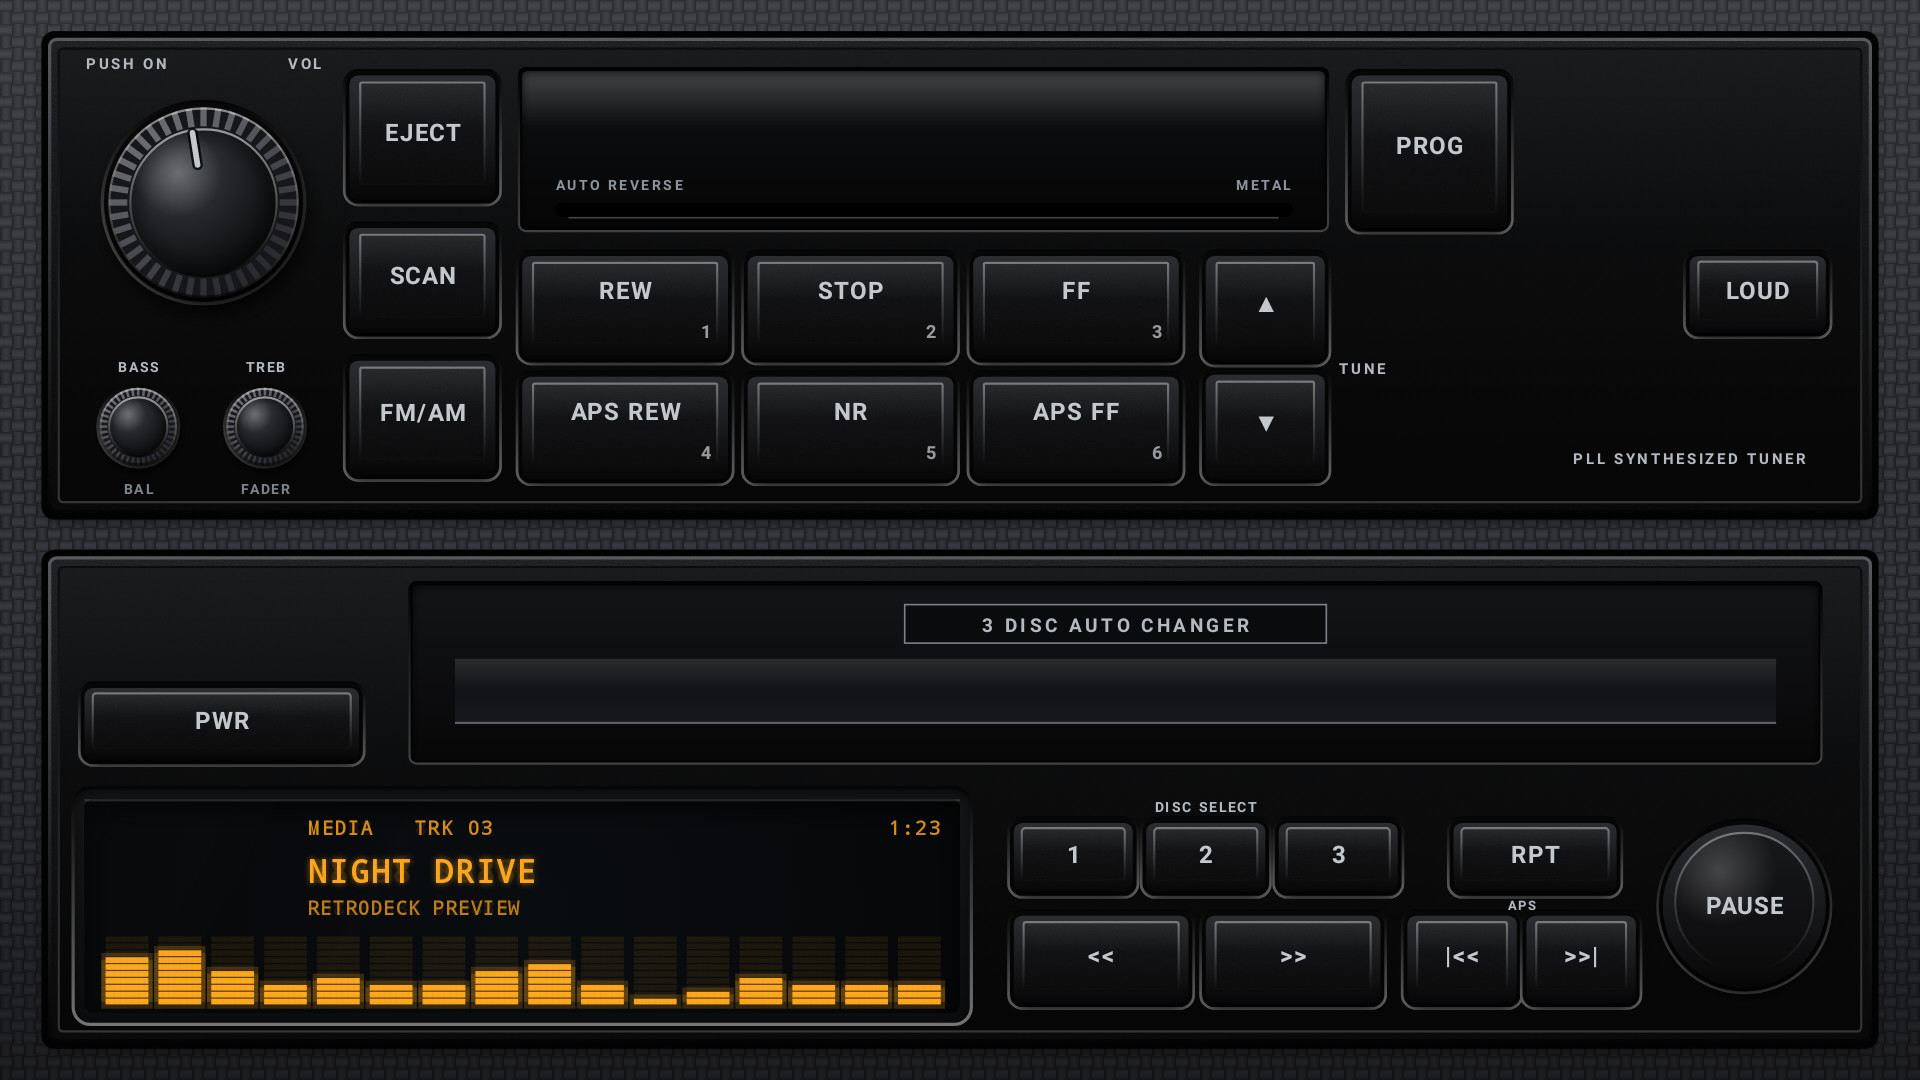
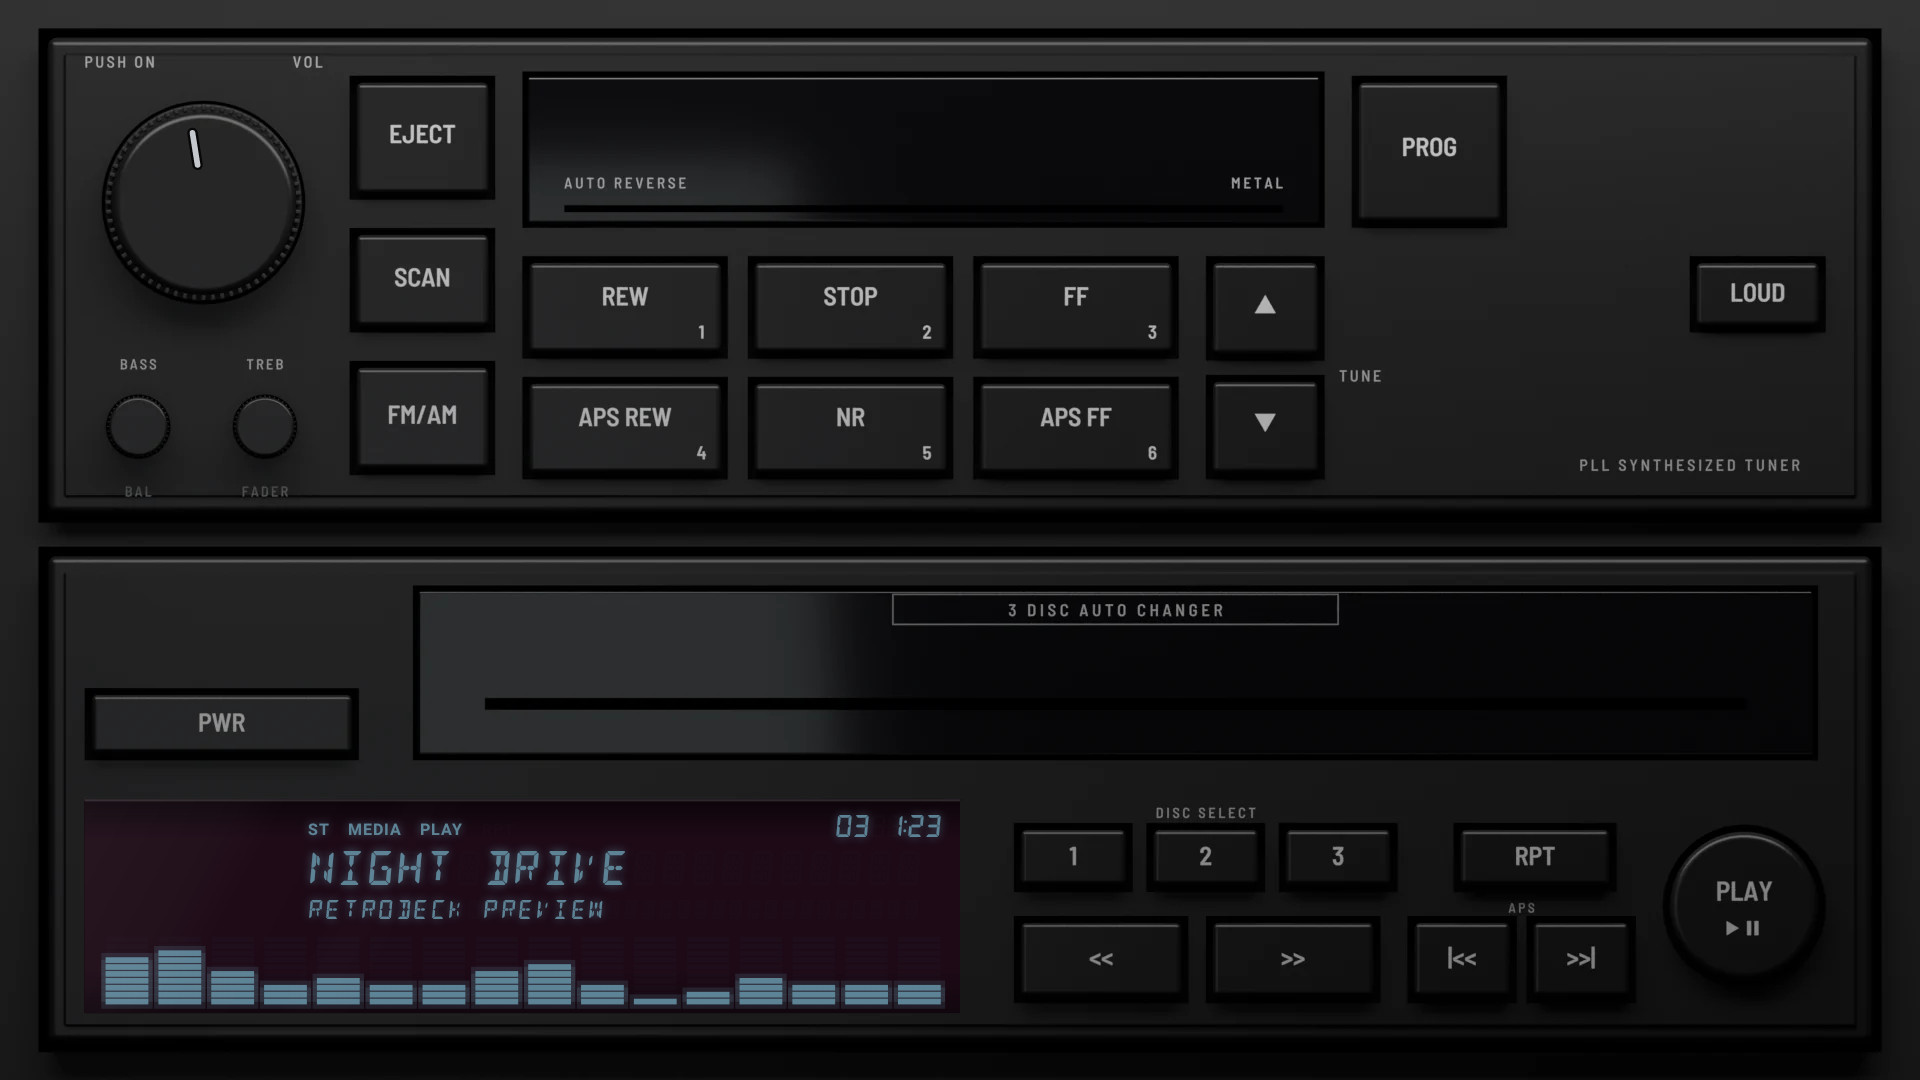
Docs: the 3D Z32's day and night renders, labelled, until it's re-shot on a device

Changed region(s): [[0.0, 0.0, 1.0, 1.0], [0.5938, 0.9167, 0.6562, 0.9472]]

diff --git a/README.md b/README.md
@@ -31,12 +31,12 @@
 
 <table>
   <tr>
-    <td width="50%"><img src="themes/1990s/z32-factory-1990/z32-night.jpg" alt="Z32 Factory 1990 at night: the faceplate dark, the white legends backlit"/><br/><sub>Z32 Factory 1990 at night: a tuner and tape deck over a three-disc changer, white legends backlit, a fluorescent display behind black glass</sub></td>
+    <td width="50%"><img src="themes/1990s/z32-factory-1990/render-night.jpg" alt="Z32 Factory 1990 at night (render)"/><br/><sub>Z32 Factory 1990 at night, modelled in 3D: backlit legends, and the display's icy blue behind smoked plum glass. A render; not yet re-shot on a device</sub></td>
     <td width="50%"><img src="themes/1980s/hi-fi-1984/stereo-hifi.jpg" alt="Hi-Fi 1984: black anodised aluminium, champagne print, slim keys and tape switches"/><br/><sub>Hi-Fi 1984: black anodised aluminium, champagne print, slim keys and tape switches</sub></td>
   </tr>
   <tr>
     <td width="50%"><img src="themes/1990s/detachable-1998/stereo-detachable.jpg" alt="Detachable 1998: curved graphite with chrome trim, a big encoder and bars that shade into the accent colour"/><br/><sub>Detachable 1998: curved graphite with chrome trim, a big encoder and bars that shade into the accent colour</sub></td>
-    <td width="50%"><img src="themes/1990s/z32-factory-1990/z32-day.jpg" alt="The same Z32 Factory 1990 by day: legends printed, not lit"/><br/><sub>The same unit by day: the legends are printed paint, not lit; the display stays lit</sub></td>
+    <td width="50%"><img src="themes/1990s/z32-factory-1990/render-day.jpg" alt="Z32 Factory 1990 by day (render)"/><br/><sub>The same unit by day: satin black plastic, gloss doors, printed legends (render)</sub></td>
   </tr>
   <tr>
     <td width="50%"><img src="themes/1990s/digital-1996/stereo-digital.jpg" alt="Digital 1996: grained plastic, rubber keys and a dot-matrix display"/><br/><sub>Digital 1996: grained plastic, rubber keys and a dot-matrix display</sub></td>
@@ -60,7 +60,7 @@
   </tr>
 </table>
 
-<p align="center"><sub>Screen grabs from the running app on an Android TV box set to 1920×1080 at 240 dpi, like a 1280×720 HD head unit. Nothing is mocked up or retouched. "Halcyon Motor Co." and the "Mesa GT" are made up for these screenshots; their artwork is in <a href="docs/demo/">docs/demo</a>.</sub></p>
+<p align="center"><sub>Screen grabs from the running app on an Android TV box set to 1920×1080 at 240 dpi, like a 1280×720 HD head unit. Nothing is mocked up or retouched; the two Z32 Factory 1990 images are labelled renders until it's re-shot. "Halcyon Motor Co." and the "Mesa GT" are made up for these screenshots; their artwork is in <a href="docs/demo/">docs/demo</a>.</sub></p>
 
 <h2>Features</h2>
 

diff --git a/themes/1990s/z32-factory-1990/README.md b/themes/1990s/z32-factory-1990/README.md
@@ -1,21 +1,15 @@
 # Z32 Factory 1990
 
-**Era:** 1990s  ·  **Display:** Vacuum fluorescent behind black glass, lit the same by day and night, pale blue characters behind plum-red filter glass, whatever the dash lighting  ·  **Skin id:** `z32factory90`
+**Era:** 1990s  ·  **Display:** Vacuum fluorescent: pale blue segments behind plum-red filter glass and smoked black, muted by day and bright at night, whatever the dash lighting  ·  **Skin id:** `z32factory90`
 
-A car maker's factory stack from around 1990: a tuner and tape deck over a three-disc changer, in near-black satin plastic set into a carbon-look dash. Modelled on the factory tape deck and changer fitted to the Z32. The legends are white: printed paint by day, backlit at night.
+A car maker's factory stack from around 1990: a tuner and tape deck over a three-disc changer, in near-black satin plastic set into the dash. Modelled in 3D and rendered with Blender (see tools/blender). Modelled on the factory tape deck and changer fitted to the Z32. The legends are white: printed paint by day, backlit at night.
 
 ## Screenshots
 
-Taken from the running app (v0.3.1) on an Android TV box at 1920×1080 (240 dpi), branded with the made-up Halcyon Mesa GT from [docs/demo](../../../docs/demo/).
-
-![At night: the faceplate dark, the white legends backlit](z32-night.jpg)
-<sub>At night (Key Lighting on Auto, 21:23): the faceplate dark, the white legends backlit</sub>
-
-![By day: the legends are printed, not lit](z32-day.jpg)
-<sub>By day (Key Lighting Off): the legends are printed paint; the display stays lit</sub>
+Since v0.4.0 this skin is modelled in 3D, and it hasn't been re-shot on a device yet; the renders below show it. The Key Lighting setting, from the running app (v0.3.0):
 
 ![The Key Lighting setting](key-lighting.jpg)
-<sub>The Key Lighting setting (v0.3.0)</sub>
+<sub>The Key Lighting setting</sub>
 
 ## Day and night
 

diff --git a/themes/README.md b/themes/README.md
@@ -15,7 +15,7 @@ Every RetroDeck skin, by era. Each page has screenshots from a real device, day 
 
 <table>
   <tr>
-    <td width="50%" valign="top"><a href="1990s/z32-factory-1990/"><img src="1990s/z32-factory-1990/z32-night.jpg" alt="Z32 Factory 1990"/></a><br/><b><a href="1990s/z32-factory-1990/">Z32 Factory 1990</a></b><br/><sub>Vacuum fluorescent behind black glass, lit the same by day and night, glowing cyan whatever the dash lighting, like the real unit</sub></td>
+    <td width="50%" valign="top"><a href="1990s/z32-factory-1990/"><img src="1990s/z32-factory-1990/render-night.jpg" alt="Z32 Factory 1990"/></a><br/><b><a href="1990s/z32-factory-1990/">Z32 Factory 1990</a></b><br/><sub>Vacuum fluorescent behind black glass, lit the same by day and night, glowing cyan whatever the dash lighting, like the real unit</sub></td>
     <td width="50%" valign="top"><a href="1990s/digital-1996/"><img src="1990s/digital-1996/stereo-digital.jpg" alt="Digital 1996"/></a><br/><b><a href="1990s/digital-1996/">Digital 1996</a></b><br/><sub>Dot matrix</sub></td>
   </tr>
   <tr>

diff --git a/themes/1990s/README.md b/themes/1990s/README.md
@@ -2,7 +2,7 @@
 
 ## [Z32 Factory 1990](z32-factory-1990/)
 
-[![Z32 Factory 1990](z32-factory-1990/z32-night.jpg)](z32-factory-1990/)
+[![Z32 Factory 1990](z32-factory-1990/render-night.jpg)](z32-factory-1990/)
 
 A car maker's factory stack from around 1990: a tuner and tape deck over a three-disc changer, in near-black satin plastic set into a carbon-look dash. Modelled on the factory tape deck and changer fitted to the Z32. The legends are white: printed paint by day, backlit at night.
 
